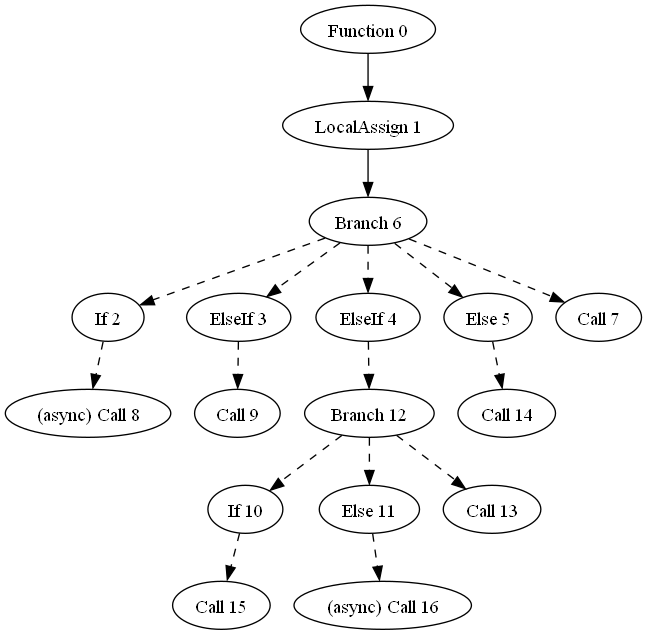
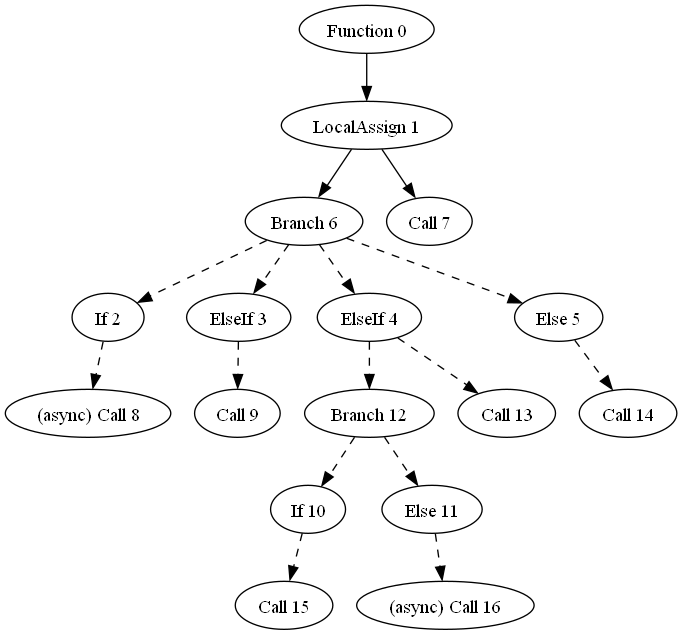
Better graph ordering

diff --git a/translator-old.py b/translator-old.py
@@ -96,7 +96,8 @@ class FSMGraph:
   
 		self.pointer.add_children([graph_node])
 
-		self.pointer = graph_node
+		if(type(graph_node) is not BranchGraphNode):
+			self.pointer = graph_node
 
 	def get_descendants(self, node):
 		return self._get_descendants(node, [])
